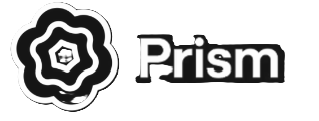
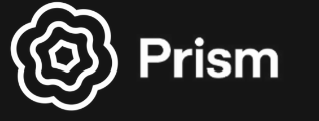
Revert "final"
This reverts commit ce588c4377bdbb3d3fd10a833b7db3418ed77566.

diff --git a/src/app/components/People.tsx b/src/app/components/People.tsx
@@ -229,7 +229,7 @@ export default function People() {
                 whileInView={{ opacity: 1, y: 0, filter: 'blur(0px)' }}
                 viewport={inViewOptions}
                 transition={springPop(0.08 + idx * 0.04)}
-                className="rounded-2xl border border-white/[0.14] bg-white/[0.08] p-4 shadow-[0_14px_40px_rgba(4,8,15,0.35),inset_0_1px_0_rgba(255,255,255,0.1)] backdrop-blur-xl md:p-5"
+                className="rounded-2xl border border-[#6f8fba]/35 bg-[linear-gradient(140deg,rgba(53,74,114,0.96)_0%,rgba(42,95,95,0.9)_58%,rgba(27,42,66,0.95)_100%)] p-4 shadow-[0_10px_30px_rgba(8,18,34,0.35),inset_0_1px_0_rgba(255,255,255,0.12)] md:p-5"
               >
                 <h3 className="text-sm font-black uppercase tracking-[0.06em] text-white/95 md:text-[0.95rem]">
                   {group.title}

diff --git a/src/app/components/Products.tsx b/src/app/components/Products.tsx
@@ -12,8 +12,8 @@ const PRODUCT_LOGOS: Record<string, string> = {
   image: '/images/dalle.png',
   mic:   '/images/whisper.png',
   video: '/images/sora.png',
-  codex: '/images/codex.png',
-  prism: '/images/prism.png',
+  codex: '/images/codex.jpg',
+  prism: '/images/prism.jpg',
   atlas: '/images/atlas.jpg',
 };
 
